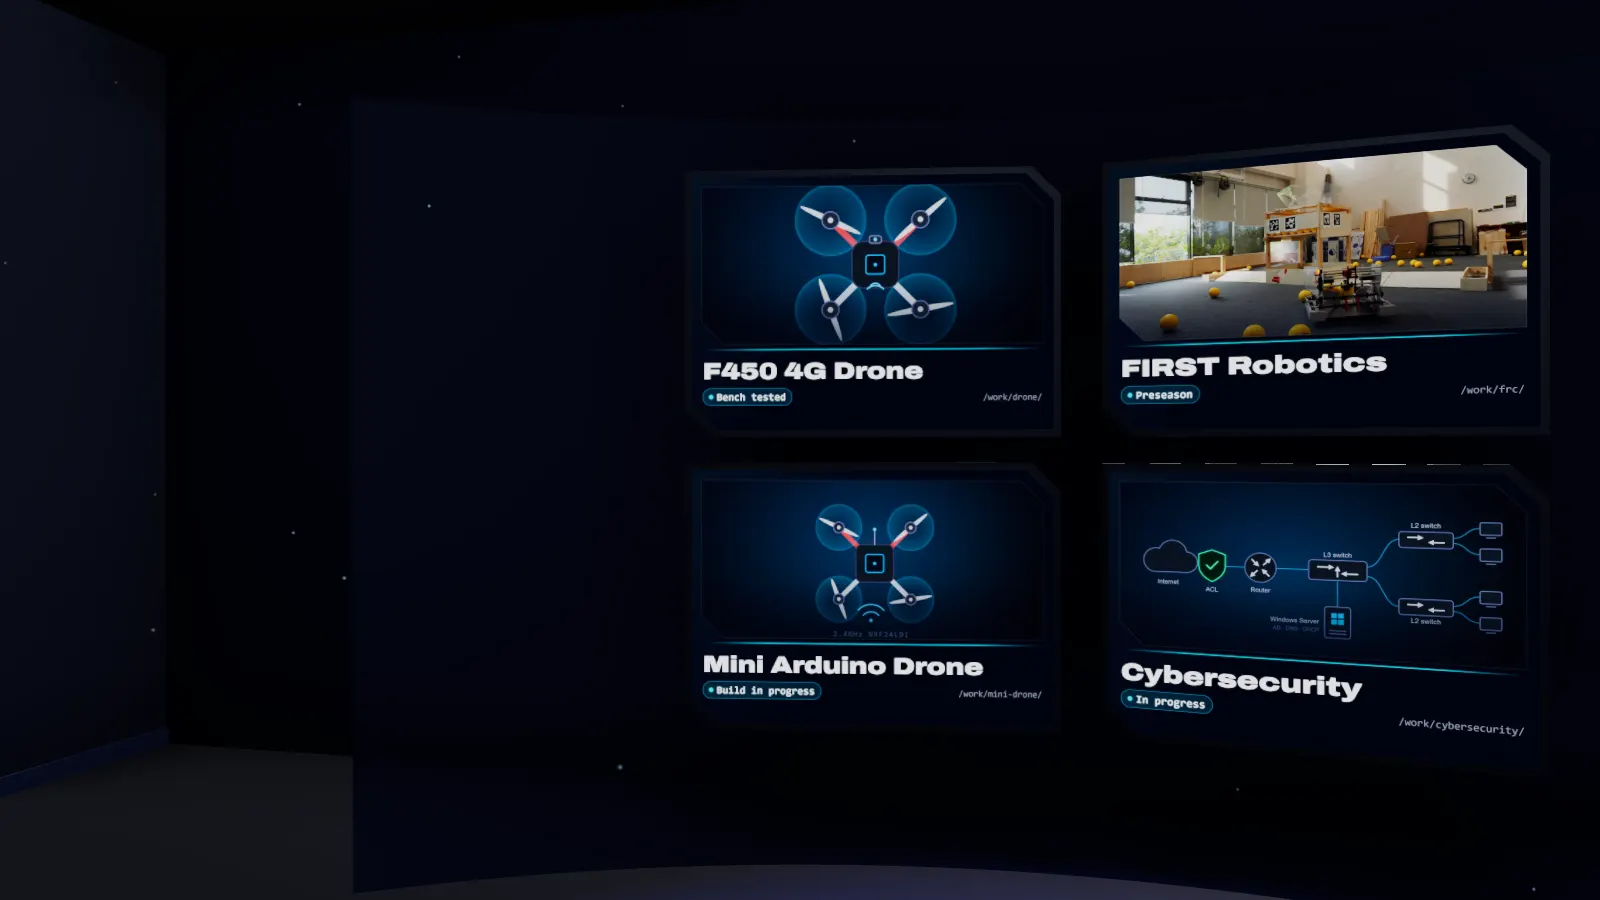
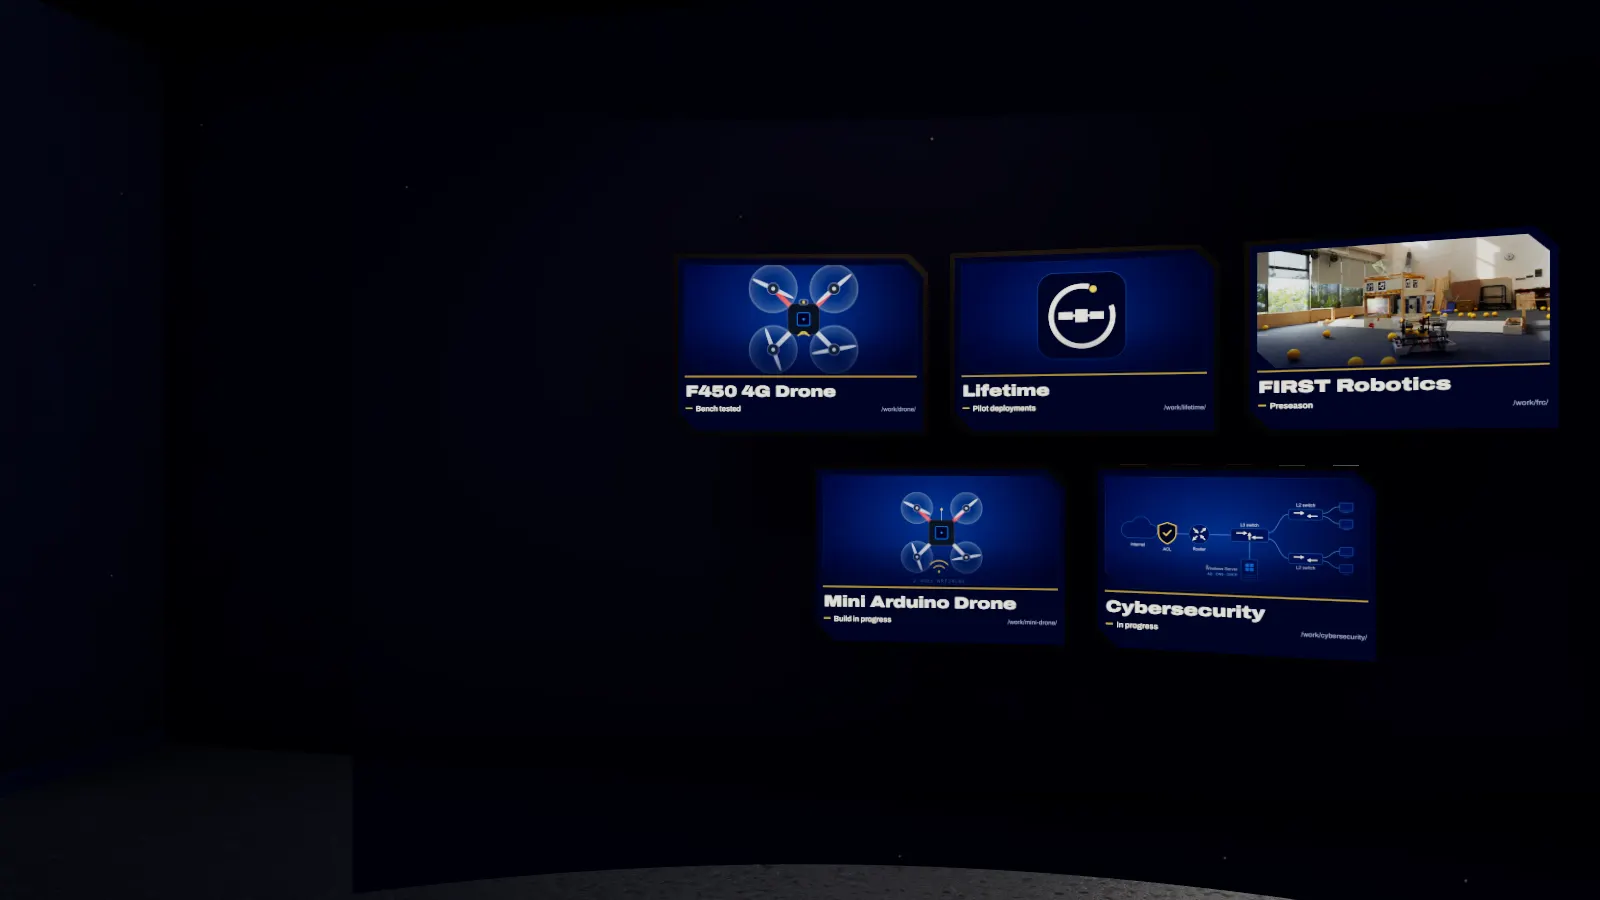
Studio: a Software station after the drones, before the rack; the project wall three over two
A small stand with Lifetime's own Overview on its monitor, and its scene ("Software") between Drones and Networks,
with the service in src/text/home.ts (also on the Classic home's Build it. plate). The wall's five panels sit three
above, two below, centred like bricks, smaller so all five fit beside the text. Read-mode pictures for both scenes;
studio-stills.py sets the 3D choice and the seen intro, which the chooser now asks for.

diff --git a/src/lib/studio/stations.ts b/src/lib/studio/stations.ts
@@ -1,10 +1,11 @@
 /**
- * The rest of the studio, after the desk (room.ts): the four work stations against the front wall, the curved wall of
+ * The rest of the studio, after the desk (room.ts): the five work stations against the front wall, the curved wall of
  * projects at the right-hand end, and along the back wall the whiteboard, the window, the team's table and the door.
  * Metres, y up; positions match the camera's shots in scenes.ts.
  *
  *   Robotics   the KitBot on a low rolling cart, a pegboard of tools behind it (the robot's own CAD, frc-robot.ts)
  *   Drones     the F450 on a landing mat, powered up on the bench (its LED blinks; it has not flown, so it never lifts off) (drone.ts)
+ *   Software   a small stand with a PC and a monitor, Lifetime's Overview on its screen
  *   Networks   a switch rack with blinking port lights and patch cables
  *   Testing    the test bench: a laptop on the F450's ground station (its page scrolls with the mouse wheel; screens.ts)
  *              and an easel whiteboard with the bench test. Its scene id stays "web" (links and the camera use it).
@@ -38,7 +39,7 @@ import { hardware } from "../three/finish";
 import { tick } from "../three/yield";
 import type { DroneRig } from "../three/models/drone";
 import type { Palette, StageContext } from "../three/stage";
-import { boxAt, canvasSurface, loadImage, ROOM, screenMaterial, woodMaterial } from "./room";
+import { boxAt, canvasSurface, imageTexture, loadImage, ROOM, screenMaterial, woodMaterial } from "./room";
 import { type PageScreen, pageScreen } from "./screens";
 import type { LightSpec } from "./lights";
 import { cover, cutCorners, cutCornerSurface, projectFace } from "./panels";
@@ -250,6 +251,25 @@ export async function buildStations(ctx: StageContext, parent: Group, content: R
 	await tick();
 
 	/* ================================================================== */
+	/* Software: a small stand between the drones and the rack, with      */
+	/* Lifetime on its monitor                                             */
+	/* ================================================================== */
+	const softX = 2.58;
+	const softZ = -2.7;
+	workbench(softX, 0.6, 0.6, softZ);
+	boxAt(group, 0.5, 0.325, 0.025, dark, softX, benchTop + 0.27, softZ - 0.16, 0.008);
+	// Its screen: Lifetime's own Overview (the same screenshot as on the Lifetime page), 16:10 like the screen.
+	const softScreen = new Mesh(new PlaneGeometry(0.47, 0.294), screenMaterial(imageTexture("/assets/lifetime/overview.webp")));
+	softScreen.position.set(softX, benchTop + 0.27, softZ - 0.146);
+	group.add(softScreen);
+	boxAt(group, 0.05, 0.11, 0.05, steel, softX, benchTop + 0.055, softZ - 0.18);
+	boxAt(group, 0.2, 0.01, 0.14, steel, softX, benchTop + 0.005, softZ - 0.17, 0.004);
+	boxAt(group, 0.36, 0.018, 0.12, dark, softX, benchTop + 0.009, softZ + 0.1, 0.005); // the keyboard
+	boxAt(group, 0.09, 0.3, 0.26, dark, softX + 0.21, 0.15, softZ - 0.05, 0.008); // the PC, on the floor under the stand
+
+	await tick();
+
+	/* ================================================================== */
 	/* Networks: the switch rack                                           */
 	/* ================================================================== */
 	const rackX = 3.3;
@@ -434,10 +454,10 @@ export async function buildStations(ctx: StageContext, parent: Group, content: R
 	await tick();
 
 	/* ================================================================== */
-	/* The wall: one panel per project, two rows on an arc                 */
+	/* The wall: one panel per project, three above and two below, on an arc */
 	/* ================================================================== */
 	// The arc's centre is where the camera stands for this scene (scenes.ts), so every panel is the same distance away.
-	const arc = { x: 3.6, z: 1.0, r: 3.9, step: 0.35, y: 1.45, row: 0.98 };
+	const arc = { x: 3.6, z: 1.0, r: 3.9, step: 0.235, y: 1.45, row: 0.7, scale: 0.68 };
 	const wallBack = new Mesh(
 		new CylinderGeometry(arc.r + 0.2, arc.r + 0.2, 2.6, 48, 1, true, Math.PI / 2 - 0.6, 1.2),
 		new MeshStandardMaterial({ color: 0x0e1834, roughness: 0.9, side: DoubleSide }),
@@ -448,10 +468,14 @@ export async function buildStations(ctx: StageContext, parent: Group, content: R
 	// The panel under the pointer (-1: none) lifts toward the camera, glows at its edge and brightens; the others dim a little.
 	let hovered = -1;
 	let wallHover = 0;
+	// Read left to right and top to bottom (the camera looks along +x, so its right is +z): the top row holds one more
+	// than the bottom when the count is odd, and each row is centred, so five sit three over two like bricks.
+	const topCount = Math.ceil(content.projects.length / 2);
 	const panels = content.projects.map((project, i) => {
-		// Two to a row, read left to right and top to bottom (the camera looks along +x, so its right is +z).
-		const angle = ((i % 2) - 0.5) * arc.step;
-		const y = arc.y + (Math.floor(i / 2) === 0 ? arc.row / 2 : -arc.row / 2);
+		const top = i < topCount;
+		const inRow = top ? topCount : content.projects.length - topCount;
+		const angle = ((top ? i : i - topCount) - (inRow - 1) / 2) * arc.step;
+		const y = arc.y + (top ? arc.row / 2 : -arc.row / 2);
 		const holder = new Group();
 		const bx = arc.x + Math.cos(angle) * arc.r;
 		const bz = arc.z + Math.sin(angle) * arc.r;
@@ -818,6 +842,7 @@ export async function buildStations(ctx: StageContext, parent: Group, content: R
 	const accents: Record<string, LightSpec> = {
 		networks: { at: [rackX, 1.4, rackFront + 0.3], color: 0xb8c8ff, dark: 0.5, light: 0.5, distance: 1.4, decay: 2 },
 		web: { at: [webX, benchTop + 0.25, laptopZ + 0.3], color: 0x9ccfff, dark: 0.9, light: 0.9, distance: 1.4, decay: 2 },
+		software: { at: [softX, benchTop + 0.3, softZ + 0.35], color: 0x9ccfff, dark: 0.9, light: 0.9, distance: 1.4, decay: 2 },
 		standards: { at: [boardX, 2.75, z1 - 0.7], color: 0xfff4e0, dark: 2.2, light: 3, distance: 3.2, decay: 1.6 },
 		contact: { at: [doorX, 2.1, z1 - 1.8], color: 0xffe6a8, dark: 1.2, light: 3, distance: 4, decay: 1.6 },
 	};
@@ -882,7 +907,7 @@ export async function buildStations(ctx: StageContext, parent: Group, content: R
 				const h = panel.hover;
 				panel.holder.rotation.y = panel.base + (1 - turn) * 0.5;
 				panel.holder.position.set(panel.bx + panel.toward[0] * 0.12 * h, panel.y - (1 - turn) * 0.04, panel.bz + panel.toward[1] * 0.12 * h);
-				panel.holder.scale.setScalar(1 + 0.05 * h);
+				panel.holder.scale.setScalar(arc.scale * (1 + 0.05 * h));
 				(panel.screen.material as MeshBasicMaterial).color.setScalar(1 - 0.3 * wallHover * (1 - h));
 				(panel.edge.material as MeshBasicMaterial).opacity = h;
 			});

diff --git a/src/lib/studio/scenes.ts b/src/lib/studio/scenes.ts
@@ -1,6 +1,6 @@
 /**
  * The studio's scenes: where the camera stands and what it looks at for each one. Metres, y up; the room runs along
- * x (-8.5 to 8.5), with the desk and the four work stations against the front wall (z = -3.4, the camera looking
+ * x (-8.5 to 8.5), with the desk and the work stations against the front wall (z = -3.4, the camera looking
  * toward -z) and the whiteboard, window, table and door against the back wall (z = 6.4, the camera looking toward +z).
  * See src/lib/studio/room.ts for what stands where.
  *
@@ -37,11 +37,13 @@ export const SHOTS: Record<string, SceneShot> = {
 	simFly: { id: "simFly", camera: [-3.0, 1.3, -1.2], target: [-3.0, 1.1, -2.8] },
 	simLand: { id: "simLand", camera: [-2.33, 1.17, -1.75], target: [-2.33, 0.99, -2.6] },
 	/**
-	 * 3 Stations: the four work areas, one after another. Each subject sits on the side of the frame away from its text
+	 * 3 Stations: the work areas, one after another. Each subject sits on the side of the frame away from its text
 	 * (text on the left: the subject to the right, and the other way round).
 	 */
 	robotics: { id: "robotics", camera: [-1.1, 1.35, -0.3], target: [-1.1, 0.75, -2.6] },
 	drones: { id: "drones", camera: [1.85, 1.4, -0.6], target: [1.85, 1.0, -2.6] },
+	/** (Software: the small stand between the drones' bench and the rack, close enough to read its monitor.) */
+	software: { id: "software", camera: [2.3, 1.3, -1.2], target: [2.3, 1.12, -2.8] },
 	networks: { id: "networks", camera: [2.85, 1.45, -0.4], target: [2.85, 1.25, -2.9] },
 	/** (The test bench: closer than the others, so the laptop's page can be read.) */
 	web: { id: "web", camera: [-2.3, 1.17, -1.75], target: [-2.3, 0.99, -2.6] },
@@ -61,4 +63,4 @@ export const SHOTS: Record<string, SceneShot> = {
 };
 
 /** The home page's scenes, in order. */
-export const HOME = ["title", "sketch", "research", "build", "test", "simIn", "simFly", "simLand", "web", "robotics", "drones", "networks", "wall", "standards", "timeline", "crew", "contact"];
+export const HOME = ["title", "sketch", "research", "build", "test", "simIn", "simFly", "simLand", "web", "robotics", "drones", "software", "networks", "wall", "standards", "timeline", "crew", "contact"];

diff --git a/src/text/studio.ts b/src/text/studio.ts
@@ -9,7 +9,7 @@
 export const studio = {
 	/** Read by screen readers for the 3D view. */
 	canvasLabel:
-		"The JPL Innovation studio in 3D: a desk with a sketchbook and a monitor, workbenches for robots, drones, networks and testing, a wall of projects, a whiteboard, a window, the team's table and the door.",
+		"The JPL Innovation studio in 3D: a desk with a sketchbook and a monitor, workbenches for robots, drones, software, networks and testing, a wall of projects, a whiteboard, a window, the team's table and the door.",
 	/** The film ruler at the bottom: what it is, for screen readers. */
 	rulerLabel: "Scenes in the studio",
 	/** Under the first scene, before anyone has scrolled. */
@@ -80,6 +80,7 @@ export const sceneNames: Record<string, string> = {
 	research: "Research",
 	robotics: "Robotics",
 	drones: "Drones",
+	software: "Software",
 	networks: "Networks",
 	build: "Build",
 	test: "Test",

diff --git a/src/text/home.ts b/src/text/home.ts
@@ -147,6 +147,13 @@ export const services: Service[] = [
 		verb: "sketch",
 	},
 	{
+		icon: "code",
+		title: "Software",
+		desc: "Software made for real use, like Lifetime, which counts how long each computer is really awake.",
+		proof: { label: "Lifetime", href: "/work/lifetime/" },
+		verb: "build",
+	},
+	{
 		icon: "shield",
 		title: "Networking & cybersecurity",
 		desc: "Designing, configuring and hardening networks: Cisco routing and switching, Windows Server infrastructure, access control.",

diff --git a/scripts/studio-stills.py b/scripts/studio-stills.py
@@ -44,7 +44,8 @@ def main() -> None:
             launch["executable_path"] = args.executable
         browser = p.chromium.launch(**launch)
         page = browser.new_page(viewport=SIZE, color_scheme="dark")
-        page.add_init_script("try{localStorage.setItem('theme','dark')}catch(e){}")
+        # The 3D studio, with the first visit's chooser, intro and hook already seen.
+        page.add_init_script("try{localStorage.setItem('theme','dark');localStorage.setItem('experience','3d');localStorage.setItem('hook-seen','1');sessionStorage.setItem('jpl-intro-seen','1')}catch(e){}")
         page.goto(args.url + "?studio=capture&quality=high", wait_until="load")
         page.wait_for_function("window.__studio", timeout=180000)
         page.add_style_tag(content="[data-site-header]{display:none!important}")
